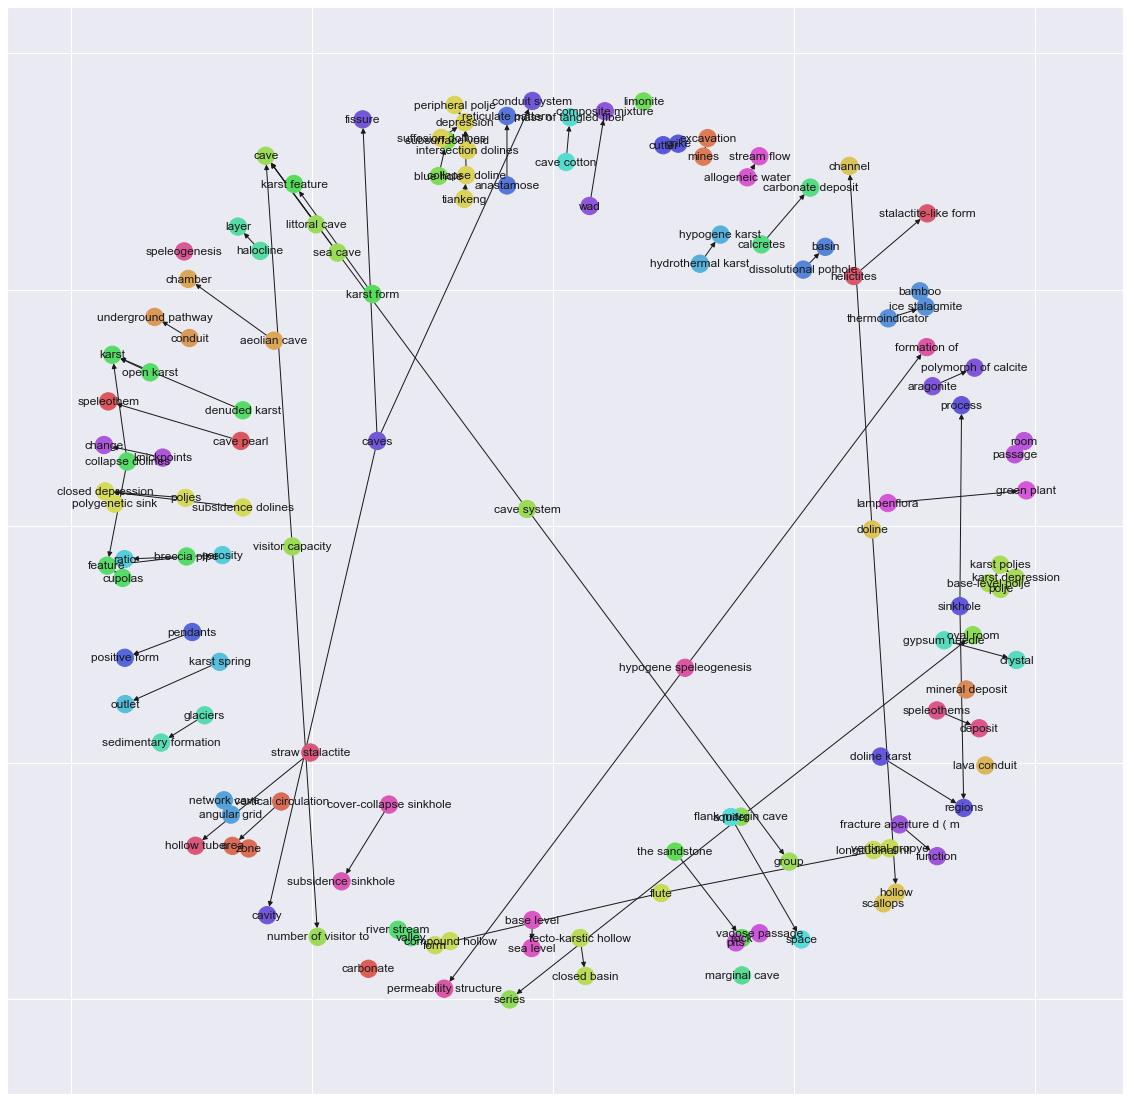
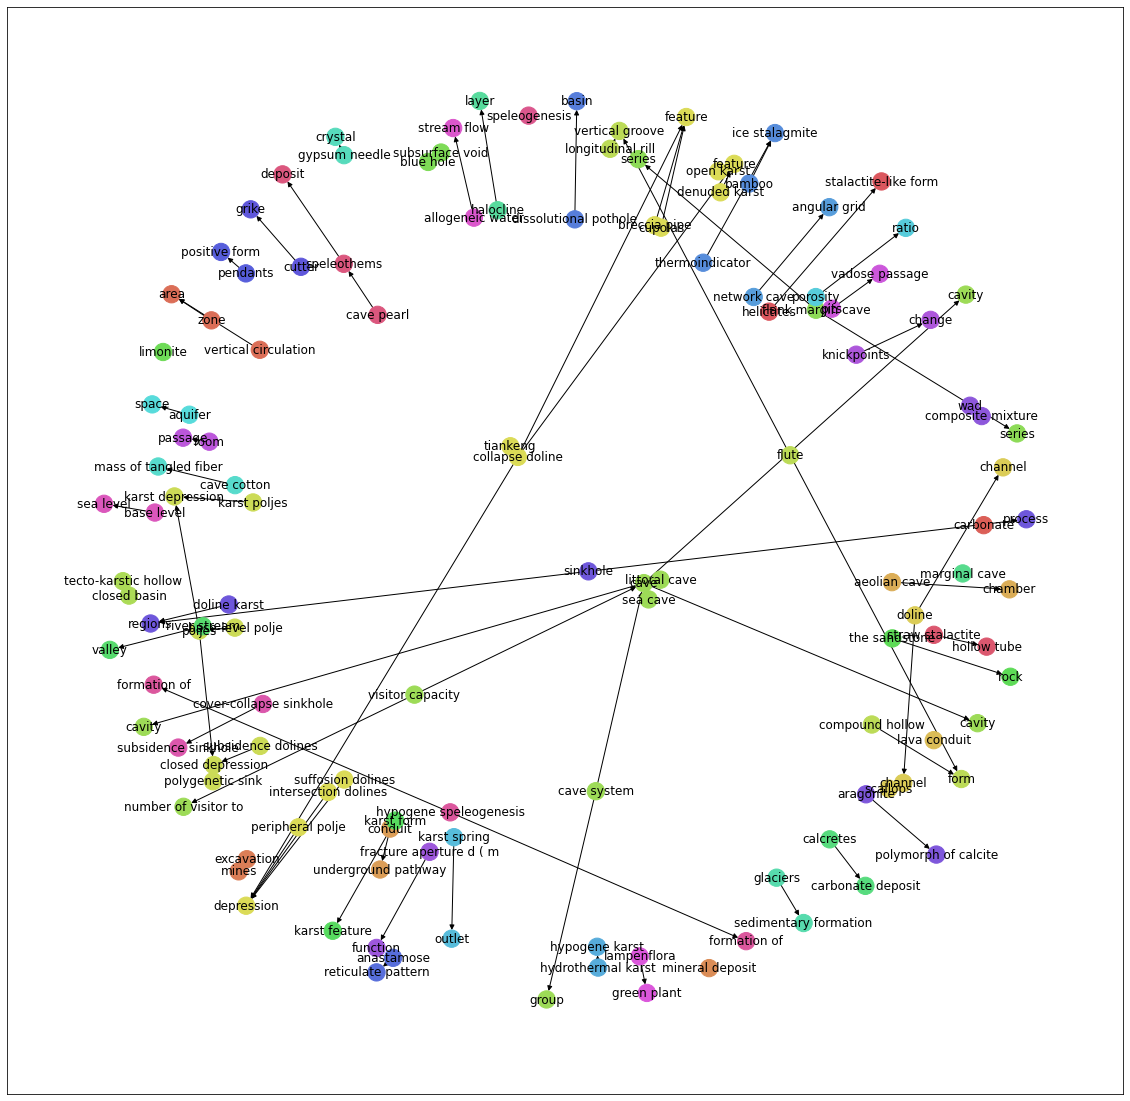
Modified node name lemmatization

diff --git a/sentence_tagger.py b/sentence_tagger.py
@@ -453,58 +453,72 @@ for i, result_sentence in enumerate(results_predicted) :
     tokens.append(new_tokens)
     tags.append(new_tags)
 
-
-from nltk.stem import WordNetLemmatizer
+from nltk.stem import PorterStemmer, WordNetLemmatizer
 import networkx as nx
 import seaborn as sns
 from matplotlib import pyplot as plt
+ps = PorterStemmer()
 lemmatizer = WordNetLemmatizer()
+
 
 edge_list = []
 
 num_of_nodes = 0
 node_hash = {}
+node_names = {}
 
 for i, result_sentence in enumerate(tags) :
     mask_dfd = [tag == 'DFD' for tag in result_sentence]
     mask_gen = [tag == 'GEN' for tag in result_sentence]
     
     definiendums = []
+    definiendums_wh = []
     geni = []
+    geni_wh = []
     
     defini = ''
+    defini_wh = ''
     for j, is_dfd in enumerate(mask_dfd) :
         if is_dfd :
-            defini += ' ' + lemmatizer.lemmatize(tokens[i][j])
+            defini += ' ' + ps.stem(tokens[i][j])
+            defini_wh += ' ' + lemmatizer.lemmatize(tokens[i][j])
         elif defini != '' :
             definiendums.append(defini.strip().lower())
+            definiendums_wh.append(defini_wh.strip().lower())
+            defini_wh = ''
             defini = ''
             
     genus = ''
+    genus_wh = ''
     for j, is_gen in enumerate(mask_gen) :
         if is_gen :
-            genus += ' ' + lemmatizer.lemmatize(tokens[i][j])
+            genus += ' ' + ps.stem(tokens[i][j])
+            genus_wh += ' ' + lemmatizer.lemmatize(tokens[i][j])
         elif genus != '' :
             geni.append(genus.strip().lower())
+            geni_wh(genus_wh.strip().lower())
+            genus_wh = ''
             genus = ''
     
-    for defin in definiendums:
+    for j, defin in enumerate(definiendums):
         if defin not in node_hash :
             node_hash[defin] = num_of_nodes
+            node_names[num_of_nodes] = definiendums_wh[j]
             num_of_nodes += 1
         
-        for gen in geni :
+        for k, gen in enumerate(geni) :
             if gen not in node_hash :
                 node_hash[gen] = num_of_nodes
+                node_names[num_of_nodes] = geni_wh[j]
                 num_of_nodes += 1
-                
+            
             edge_list.append((node_hash[defin], node_hash[gen]))
     
-
+"""
 node_name_hash = {}
 for node in node_hash :
     node_name_hash[node_hash[node]] = node
-
+"""
 G = nx.DiGraph()
 
 for node in node_hash:
@@ -528,7 +542,7 @@ fig = plt.figure(figsize=(20, 20))
 layout = nx.spring_layout(G)
 nx.draw_networkx_nodes(G, layout, node_color=colors)
 nx.draw_networkx_edges(G, layout)
-nx.draw_networkx_labels(G, layout, node_name_hash)
+nx.draw_networkx_labels(G, layout, node_names)
 print('drawn')
 
 
